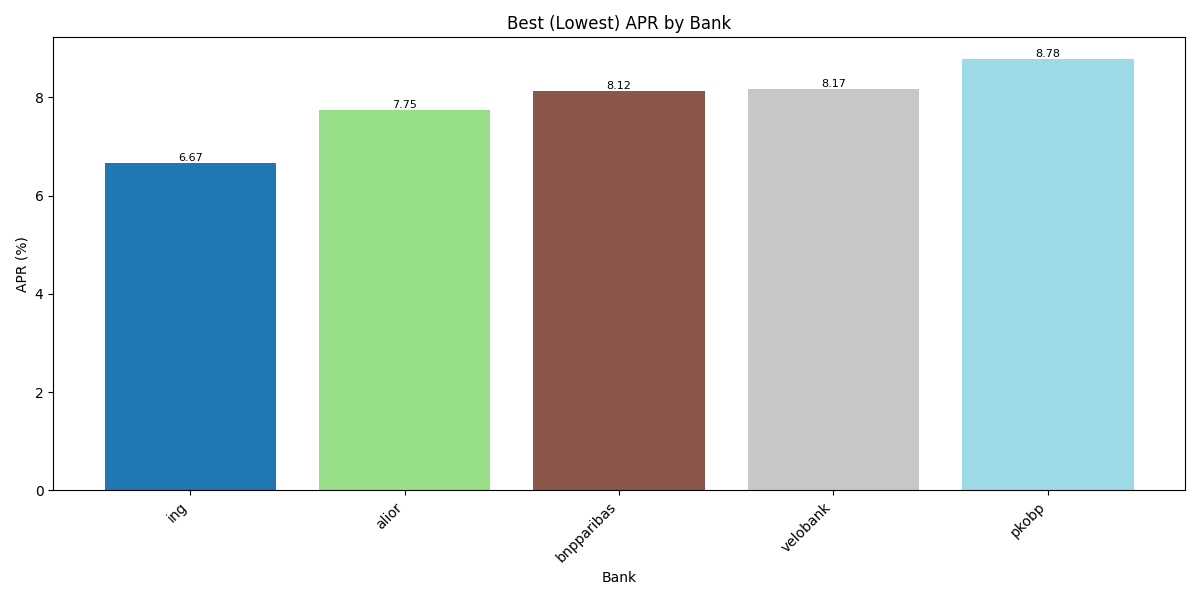
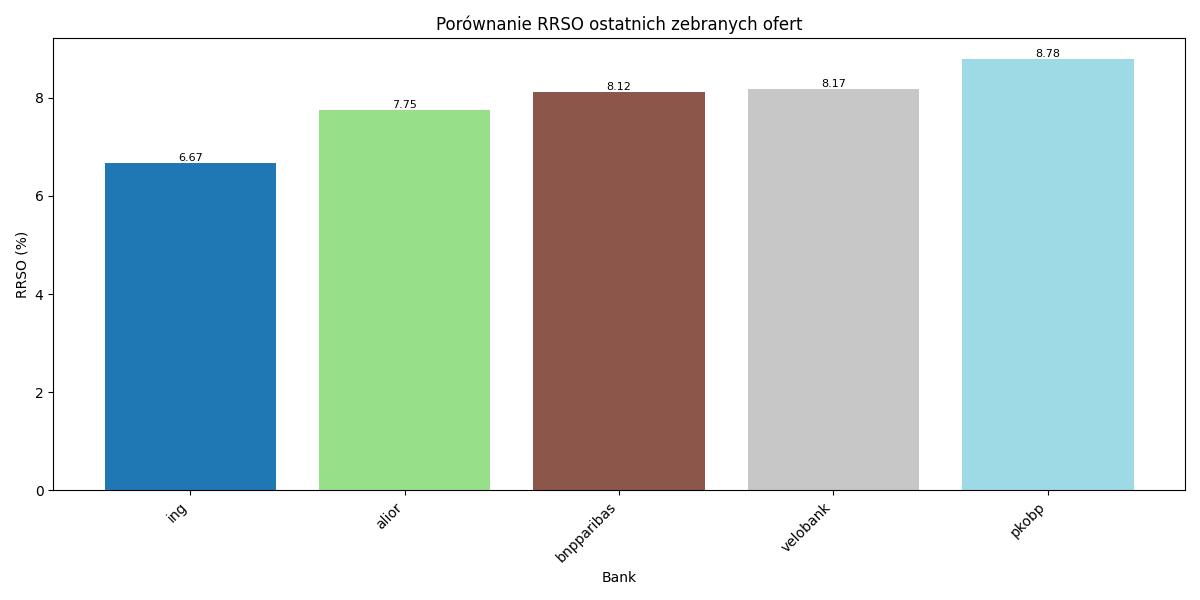
Label updates, changed to last month

Changed region(s): [[0.0617, 0.03, 0.9867, 0.09], [0.0, 0.39, 0.0308, 0.51], [0.4933, 0.12, 0.5242, 0.15]]

diff --git a/scripts/make_graph.py b/scripts/make_graph.py
@@ -53,8 +53,8 @@ for bar in bars:
     )
 
 plt.xlabel("Bank")
-plt.ylabel("Fixed Interest Rate (%)")
-plt.title("Best (Lowest) Fixed Interest Rates by Bank")
+plt.ylabel("Oprocentowanie (%)")
+plt.title("Porównanie oprocentowania stałego ostatnich zebranych ofert")
 plt.xticks(rotation=45, ha="right")
 plt.tight_layout()
 plt.savefig(img_output_dir / "output_fixed_rate_plot.png")
@@ -87,8 +87,8 @@ for bar in bars:
     )
 
 plt.xlabel("Bank")
-plt.ylabel("APR (%)")
-plt.title("Best (Lowest) APR by Bank")
+plt.ylabel("RRSO (%)")
+plt.title("Porównanie RRSO ostatnich zebranych ofert")
 plt.xticks(rotation=45, ha="right")
 plt.tight_layout()
 plt.savefig(img_output_dir / "output_apr_plot.png")
@@ -114,8 +114,8 @@ for bank, group in df_fixed_full.groupby("bank"):
     )
 
 plt.xlabel("Date")
-plt.ylabel("Fixed Interest Rate (%)")
-plt.title("Fixed Interest Rates Over Time by Bank")
+plt.ylabel("Oprocentowanie (%)")
+plt.title("Oprocentowanie stałe w czasie")
 plt.xticks(rotation=45, ha="right")
 plt.legend(title="Bank", bbox_to_anchor=(1.05, 1), loc="upper left")
 plt.tight_layout()
@@ -129,11 +129,12 @@ df["offer_collection_date"] = pd.to_datetime(df["offer_collection_date"])
 df_fixed_full = df[df["fixed_interest_rate"].notna()]
 df_fixed_full = df_fixed_full.sort_values(["bank", "offer_collection_date"])
 
-# Filter for the last 3 months
-three_months_ago = datetime.now() - timedelta(days=90)
+# Filter for the last X months
+last_days = 30
+three_months_ago = datetime.now() - timedelta(days=last_days)
 df_fixed_last_3_months = df_fixed_full[df_fixed_full["offer_collection_date"] >= three_months_ago]
 
-# Plot for the last 3 months
+# Plot for the last X months
 plt.figure(figsize=(12, 6))
 
 for bank, group in df_fixed_last_3_months.groupby("bank"):
@@ -145,12 +146,12 @@ for bank, group in df_fixed_last_3_months.groupby("bank"):
     )
 
 plt.xlabel("Date")
-plt.ylabel("Fixed Interest Rate (%)")
-plt.title("Fixed Interest Rates Over Last 3 Months by Bank")
+plt.ylabel("Oprocentowanie (%)")
+plt.title("Oprocetowanie stałe przez ostatni miesiąc")
 plt.xticks(rotation=45, ha="right")
 plt.legend(title="Bank", bbox_to_anchor=(1.05, 1), loc="upper left")
 plt.tight_layout()
-plt.savefig(img_output_dir / "output_fixed_rate_last_3_months_by_bank.png")
+plt.savefig(img_output_dir / "output_fixed_rate_last_months_by_bank.png")
 plt.show()
 
 
@@ -170,8 +171,8 @@ for bank, group in df_apr_full.groupby("bank"):
     )
 
 plt.xlabel("Date")
-plt.ylabel("APR (%)")
-plt.title("APR Over Time by Bank")
+plt.ylabel("RRSO (%)")
+plt.title("RRSO w czasie")
 plt.xticks(rotation=45, ha="right")
 plt.legend(title="Bank", bbox_to_anchor=(1.05, 1), loc="upper left")
 plt.tight_layout()
@@ -184,11 +185,12 @@ df_apr_full = df[(df["apr"] > 0) & (df["offer_collection_date"].notna())]
 df_apr_full["offer_collection_date"] = pd.to_datetime(df_apr_full["offer_collection_date"])
 df_apr_full = df_apr_full.sort_values(["bank", "offer_collection_date"])
 
-# Filter for the last 3 months
-three_months_ago = datetime.now() - timedelta(days=90)
+# Filter for the last x months
+last_days = 30
+three_months_ago = datetime.now() - timedelta(days=last_days)
 df_last_3_months = df_apr_full[df_apr_full["offer_collection_date"] >= three_months_ago]
 
-# Plot for the last 3 months
+# Plot for the last X months
 plt.figure(figsize=(12, 6))
 
 for bank, group in df_last_3_months.groupby("bank"):
@@ -200,11 +202,11 @@ for bank, group in df_last_3_months.groupby("bank"):
     )
 
 plt.xlabel("Date")
-plt.ylabel("APR (%)")
-plt.title("APR Over Last 3 Months by Bank")
+plt.ylabel("RRSO (%)")
+plt.title("RRSO przez ostatni miesiac")
 plt.xticks(rotation=45, ha="right")
 plt.legend(title="Bank", bbox_to_anchor=(1.05, 1), loc="upper left")
 plt.tight_layout()
-plt.savefig(img_output_dir / "output_apr_last_3_months_by_bank.png")
+plt.savefig(img_output_dir / "output_apr_last_months_by_bank.png")
 plt.show()
 

diff --git a/README.md b/README.md
@@ -18,11 +18,11 @@ Aktualnie zbieram dane z poniższych banków:
 - [VeloBank](https://www.velobank.pl/klienci-indywidualni/kredyty/kredyt-hipoteczny.html)
 
 ## Wykresy
-### Wysokość stałego oprocentowania w ostatnich 3 miesiącach.
+### Wysokość stałego oprocentowania w ostatnim miesiącu.
 ![Stale oprocentowanie 3 miesiace](img/output_fixed_rate_last_3_months_by_bank.png)
 ### Wysokość stałego oprocentowania w ostatniej ofercie.
 ![Stale oprocentowanie ostatnia oferta](img/output_fixed_rate_plot.png)
-### RRSO w ostatnich 3 miesiącach.
+### RRSO w ostatnim miesiącu.
 ![RRSO 3 miesiace](img/output_apr_last_3_months_by_bank.png)
 ### RRSO w ostatniej ofercie.
 ![RRSO ostatnia oferta](img/output_apr_plot.png)
